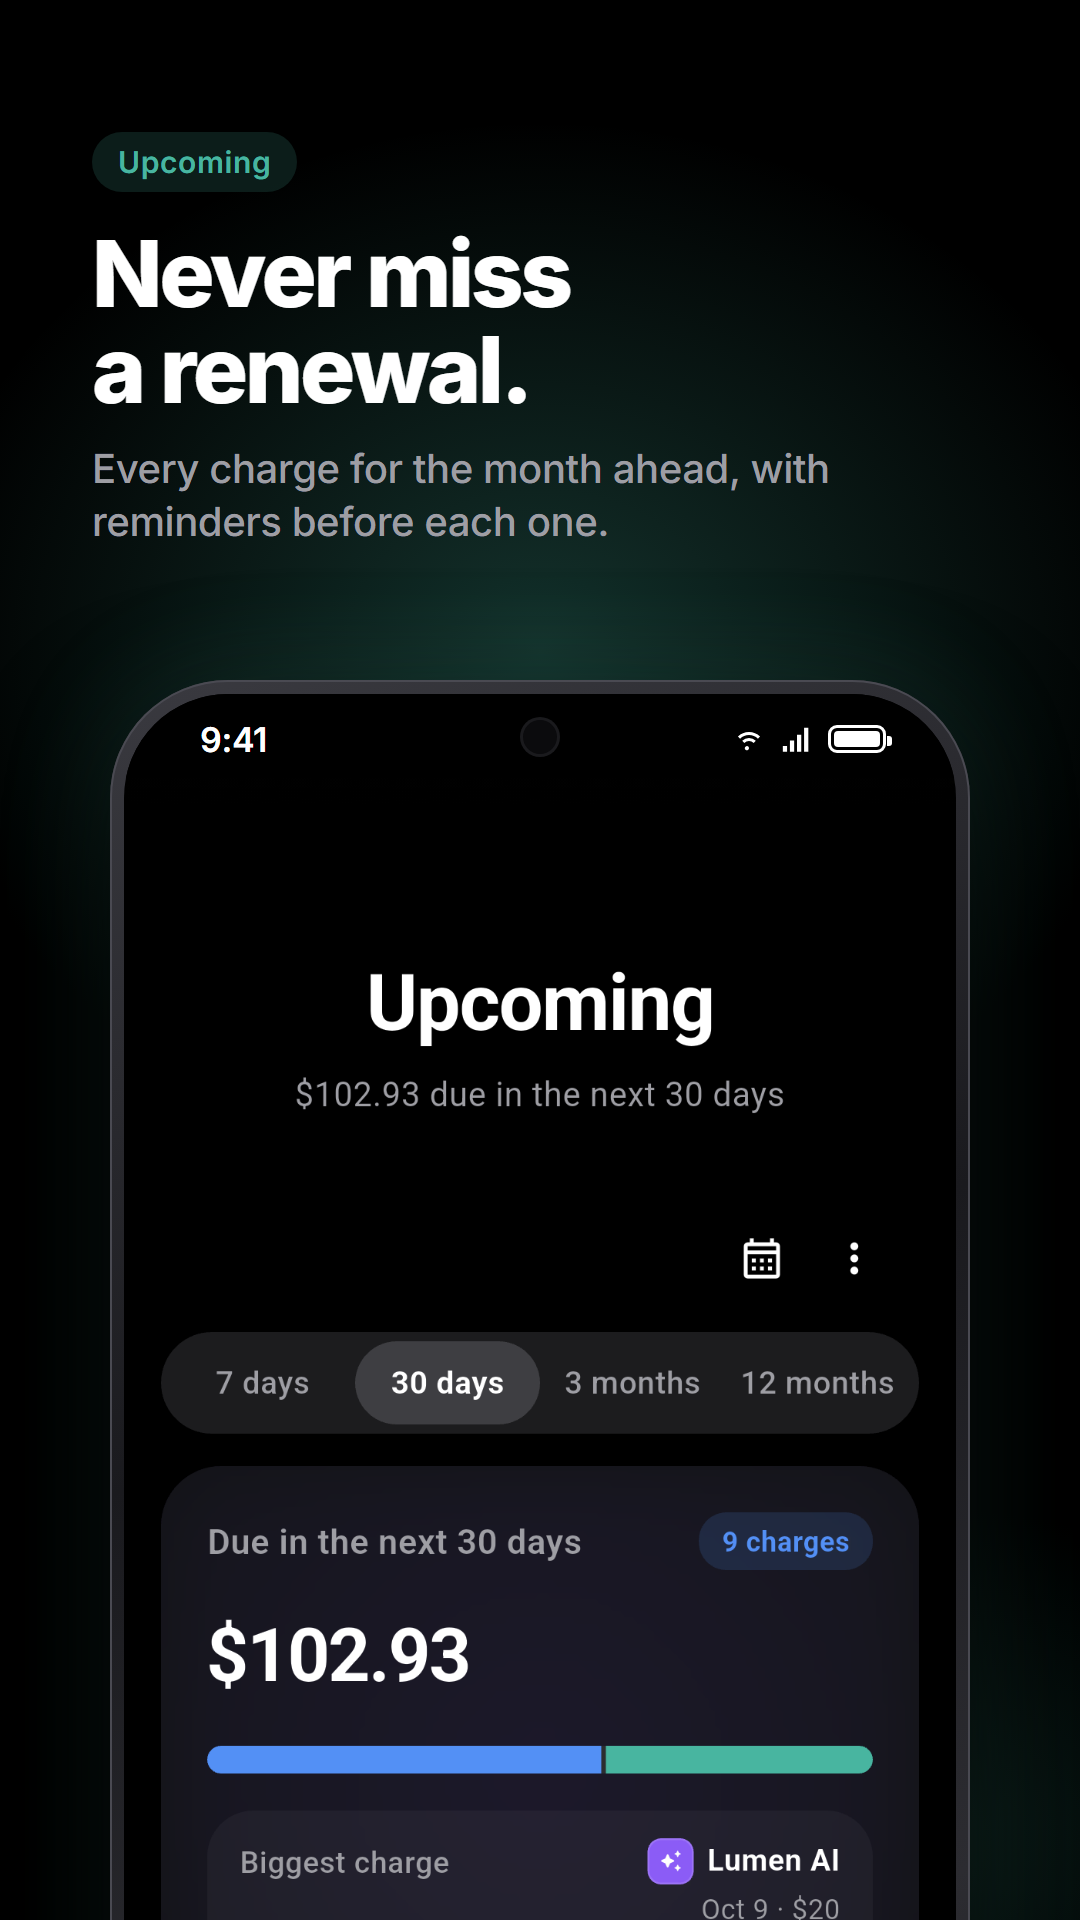
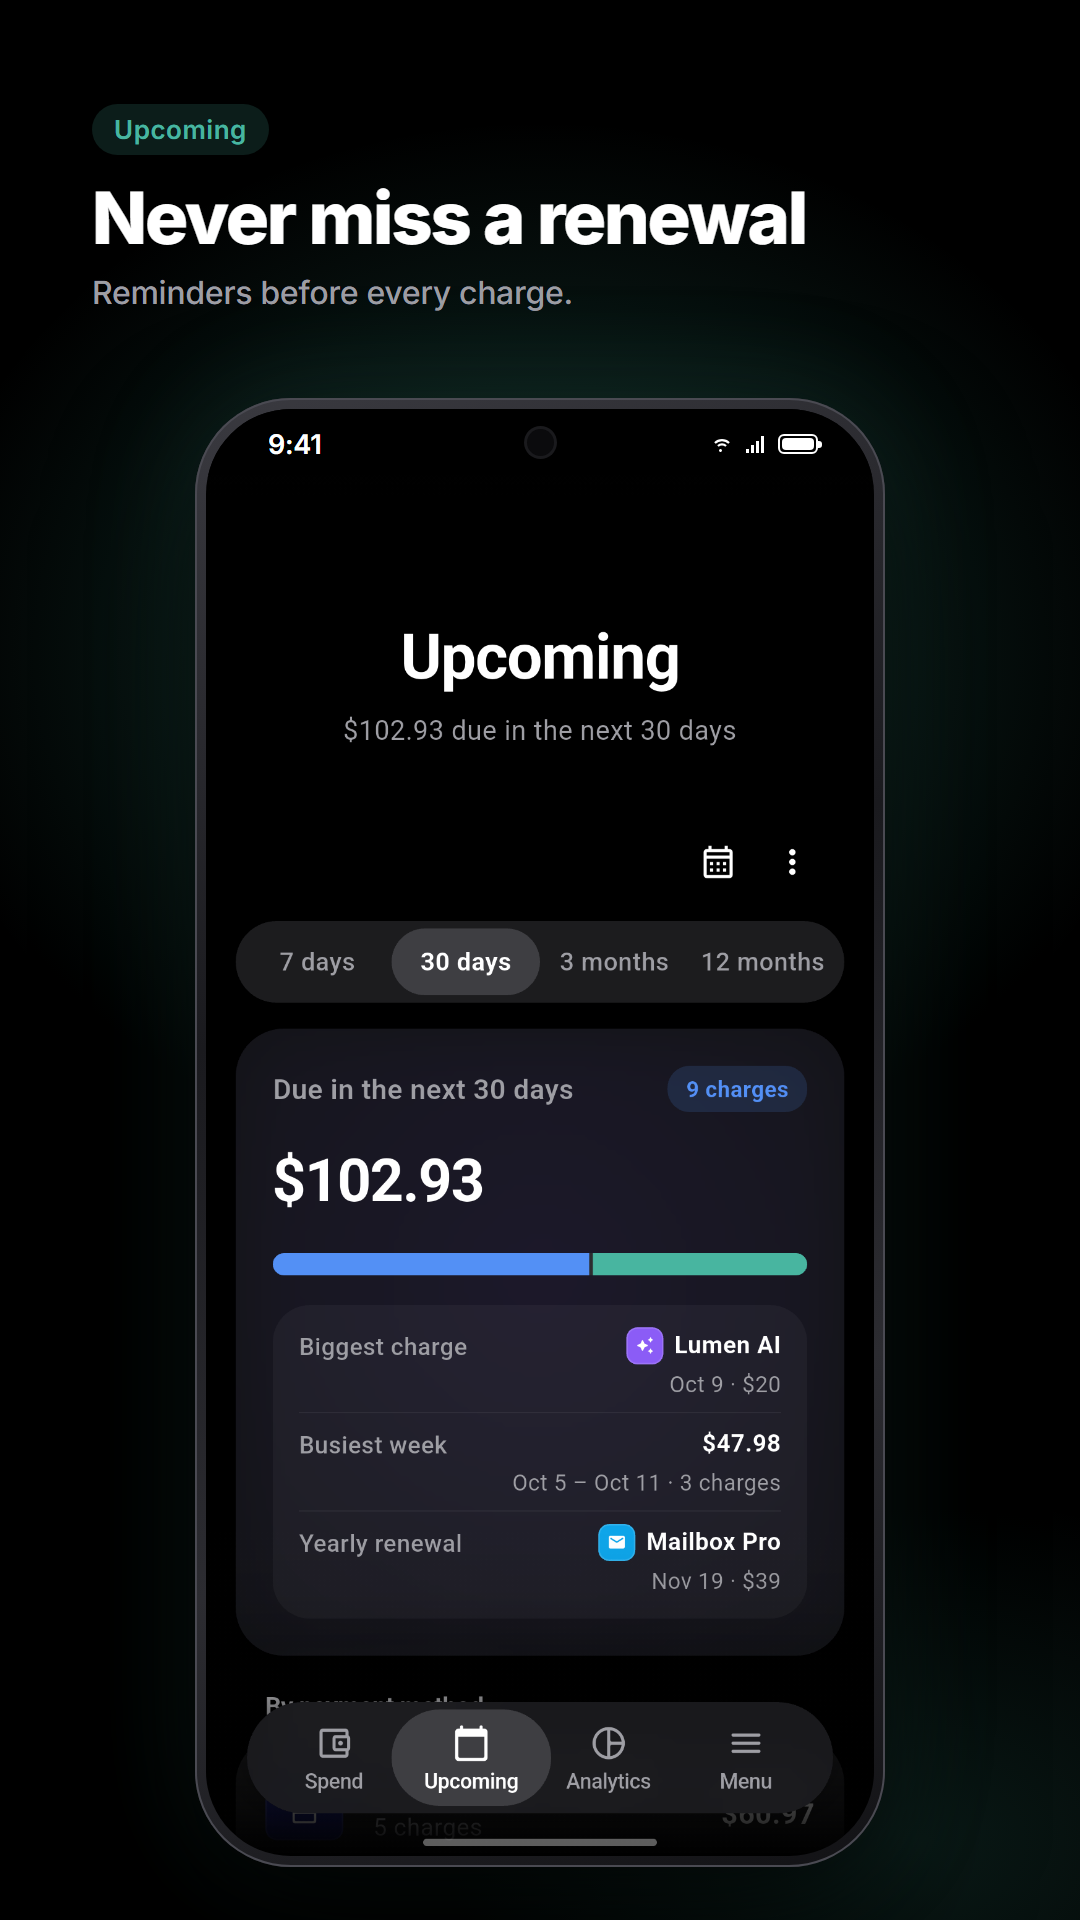
chore(store): full-phone layout with shorter one-line headlines (now the default)

diff --git a/tool/store_graphics/template.html b/tool/store_graphics/template.html
@@ -83,6 +83,20 @@
   .feature .icons { gap: 6px; }
   .feature .icons svg { width: 16px; height: 16px; }
 
+  /* Whole phone visible: smaller, centred in the space under the copy. */
+  .full .copy { top: 104px; }
+  .full .eyebrow { font-size: 26px; padding: 10px 22px; margin-bottom: 26px; }
+  .full h1 { font-size: 72px; letter-spacing: -0.03em; }
+  .full .sub { margin-top: 16px; font-size: 32px; }
+  .full .slide .phone { top: 398px !important; width: 690px; padding: 11px; border-radius: 96px; }
+  .full .slide .screen { border-radius: 85px; }
+  .full .slide .status { height: 66px; font-size: 27px; padding: 4px 56px 0 62px; }
+  .full .slide .camera { top: 20px; width: 27px; height: 27px; margin-left: -13px; }
+  .full .slide .battery { width: 40px; height: 20px; border-width: 2px; border-radius: 6px; padding: 2px; }
+  .full .slide .battery::after { right: -6px; top: 5px; width: 4px; height: 7px; }
+  .full .slide .icons { gap: 10px; }
+  .full .slide .icons svg { width: 24px; height: 24px; }
+
   .hidden { display: none; }
 </style>
 </head>
@@ -104,18 +118,18 @@
 <script>
   // Slide copy. Accent = eyebrow colour; glow = the backdrop light (the app's own accents).
   const slides = {
-    1: { img: '1-subscriptions', eyebrow: 'All in one place', title: 'Every subscription.<br>One place.',
+    1: { img: '1-subscriptions', short: 'All your subscriptions', shortSub: 'See what you pay and when it renews.', eyebrow: 'All in one place', title: 'Every subscription.<br>One place.',
          sub: 'See what you pay, and when it renews.', accent: '#5390F5', glow: 'rgba(3,129,254,.30)', glow2: 'rgba(83,144,245,.16)' },
-    2: { img: '2-upcoming', eyebrow: 'Upcoming', title: 'Never miss<br>a renewal.',
+    2: { img: '2-upcoming', short: 'Never miss a renewal', shortSub: 'Reminders before every charge.', eyebrow: 'Upcoming', title: 'Never miss<br>a renewal.',
          sub: 'Every charge for the month ahead, with reminders before each one.', accent: '#48B5A0', glow: 'rgba(72,181,160,.28)', glow2: 'rgba(72,181,160,.14)' },
-    3: { img: '3-trends', eyebrow: 'Analytics', title: 'Spot the trend<br>before it costs you.',
+    3: { img: '3-trends', short: 'Spot every trend', shortSub: 'Your yearly total and forecast.', eyebrow: 'Analytics', title: 'Spot the trend<br>before it costs you.',
          sub: 'Your yearly total, budget and spending forecast.', accent: '#F4A261', glow: 'rgba(244,162,97,.24)', glow2: 'rgba(83,144,245,.14)' },
-    4: { img: '4-categories', eyebrow: 'Categories', title: 'See where every<br>dollar goes.',
+    4: { img: '4-categories', short: 'See where it goes', shortSub: 'Your spending by category.', eyebrow: 'Categories', title: 'See where every<br>dollar goes.',
          sub: 'A clear breakdown of what each kind of service costs.', accent: '#7E57C2', glow: 'rgba(126,87,194,.32)', glow2: 'rgba(240,113,103,.14)' },
     // shift: capture pixels scrolled off the top inside the frame; top: where the phone starts.
-    5: { img: '5-savings', shift: 590, eyebrow: 'Save money', title: 'Pay less by going yearly.',
+    5: { img: '5-savings', short: 'Pay less yearly', shortSub: 'Find the cheaper annual plans.', shift: 590, eyebrow: 'Save money', title: 'Pay less by going yearly.',
          sub: 'Spot the plans that cost less on an annual plan.', accent: '#00C05A', glow: 'rgba(0,192,90,.24)', glow2: 'rgba(0,192,90,.12)' },
-    6: { img: '6-backup', top: 820, eyebrow: 'Backup', title: 'Never lose<br>a thing.',
+    6: { img: '6-backup', short: 'Never lose a thing', shortSub: 'Backups and restore points.', top: 820, eyebrow: 'Backup', title: 'Never lose<br>a thing.',
          sub: 'One-file backups and automatic restore points.', accent: '#FB8C00', glow: 'rgba(251,140,0,.22)', glow2: 'rgba(83,144,245,.12)' },
   };
 
@@ -127,7 +141,10 @@
     return `<div class="phone"${phoneStyle}><div class="screen"><img src="captures/${img}.png" alt=""${imgStyle}>${status}</div></div>`;
   }
 
-  const key = location.hash.slice(1) || '1';
+  // `#1-full` shows the whole phone instead of letting it run off the bottom.
+  const [key, mode] = (location.hash.slice(1) || '1').split('-');
+  const full = mode === 'full';
+  if (full) document.body.classList.add('full');
   const root = document.getElementById('root');
   if (key === 'feature') {
     root.innerHTML = `
@@ -148,10 +165,10 @@
       <div class="slide">
         <div class="copy">
           <div class="eyebrow">${s.eyebrow}</div>
-          <h1>${s.title}</h1>
-          <p class="sub">${s.sub}</p>
+          <h1>${full ? s.short : s.title}</h1>
+          <p class="sub">${full ? s.shortSub : s.sub}</p>
         </div>
-        ${phone(s.img, s.shift, s.top)}
+        ${full ? phone(s.img) : phone(s.img, s.shift, s.top)}
       </div>`;
   }
 </script>

diff --git a/tool/store_graphics/README.md b/tool/store_graphics/README.md
@@ -45,6 +45,10 @@ All the data in the screenshots is fictional: Streamly, Tunebox, Nova Bank and s
 ## How it's built
 
 - **`template.html`**: one slide per URL hash (`#1`–`#6`, `#feature`). Headline copy, accent colours, phone position (`top`) and capture offset (`shift`) are set in the `slides` table at the bottom.
+- **Two layouts:**
+  - **Full phone** (`#1-full`, the default in `render.ps1`): the whole phone under a short one-line headline (`short` / `shortSub`).
+  - **Close-up** (`#1`): a bigger phone running off the bottom, with a two-line headline (`title` / `sub`).
+  - To switch, set `$layout` in `render.ps1`.
 - **`render.ps1`**: screenshots each slide with headless Chrome at exact pixel sizes.
 - **`finish.py`**: flattens the images to opaque PNGs, which Play requires for the feature graphic, checks their sizes, and writes the 512 px icon.
 - **The status bar is drawn**, always showing 9:41 with full battery and signal. The captured one is covered rather than changing the phone's demo mode.
